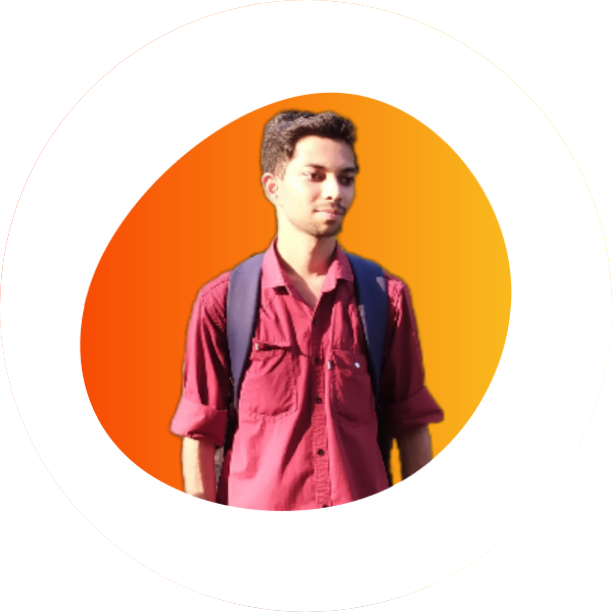
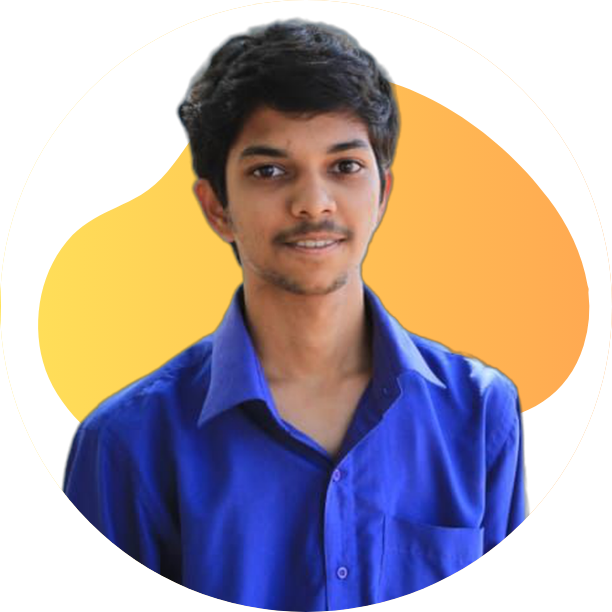
made changes in the voluteer description and pfp

diff --git a/index.html b/index.html
@@ -1365,7 +1365,9 @@
 										</div>
 									</div>
 									<div class="desc p-4 p-lg-5">
-										<p>3rd year computer engineering student</p>
+										<p>Hey! I'm a 3rd year computer engineering student who is interested in web technologies. 
+											I also like learning about the various technical fields and am currently exploring ML. 
+											I like helping in community activities and volunteering for technical and non-technical events.</p>
 									</div>
 								</div>
 							</div>
